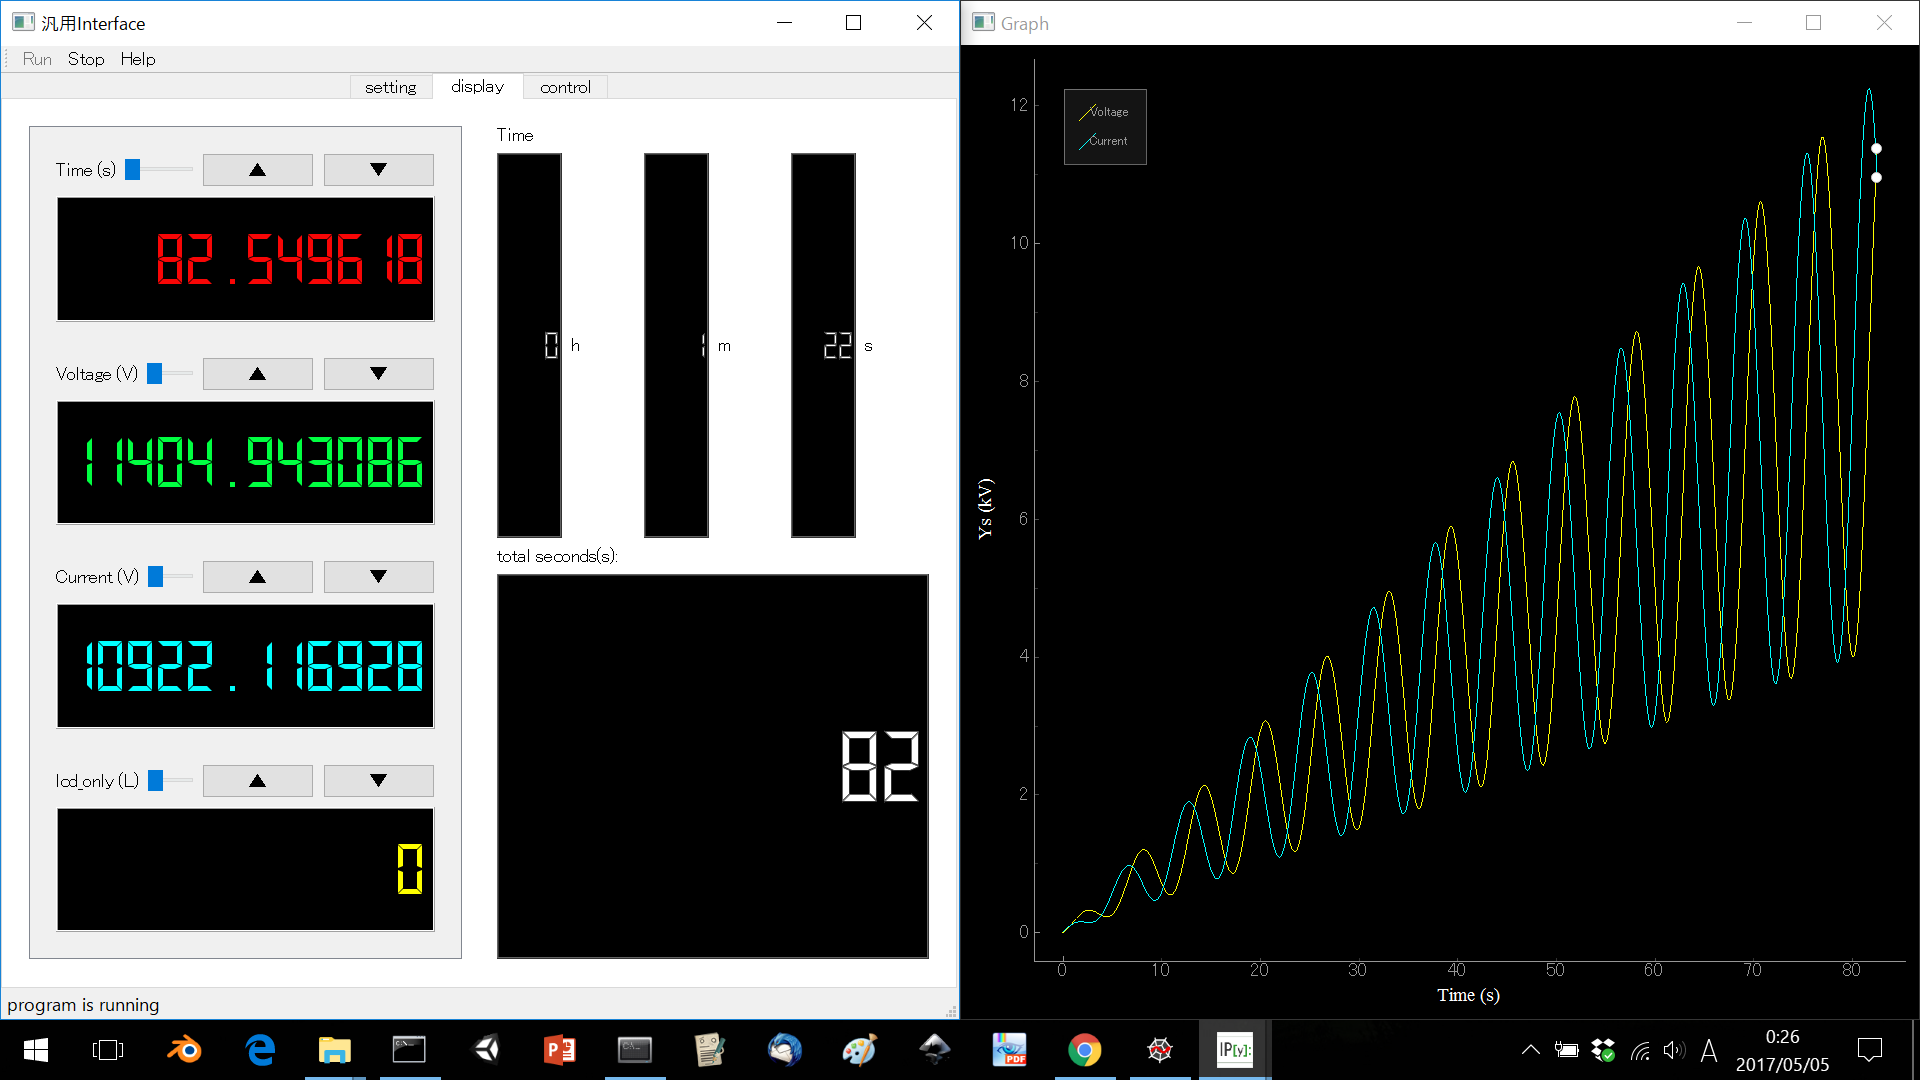
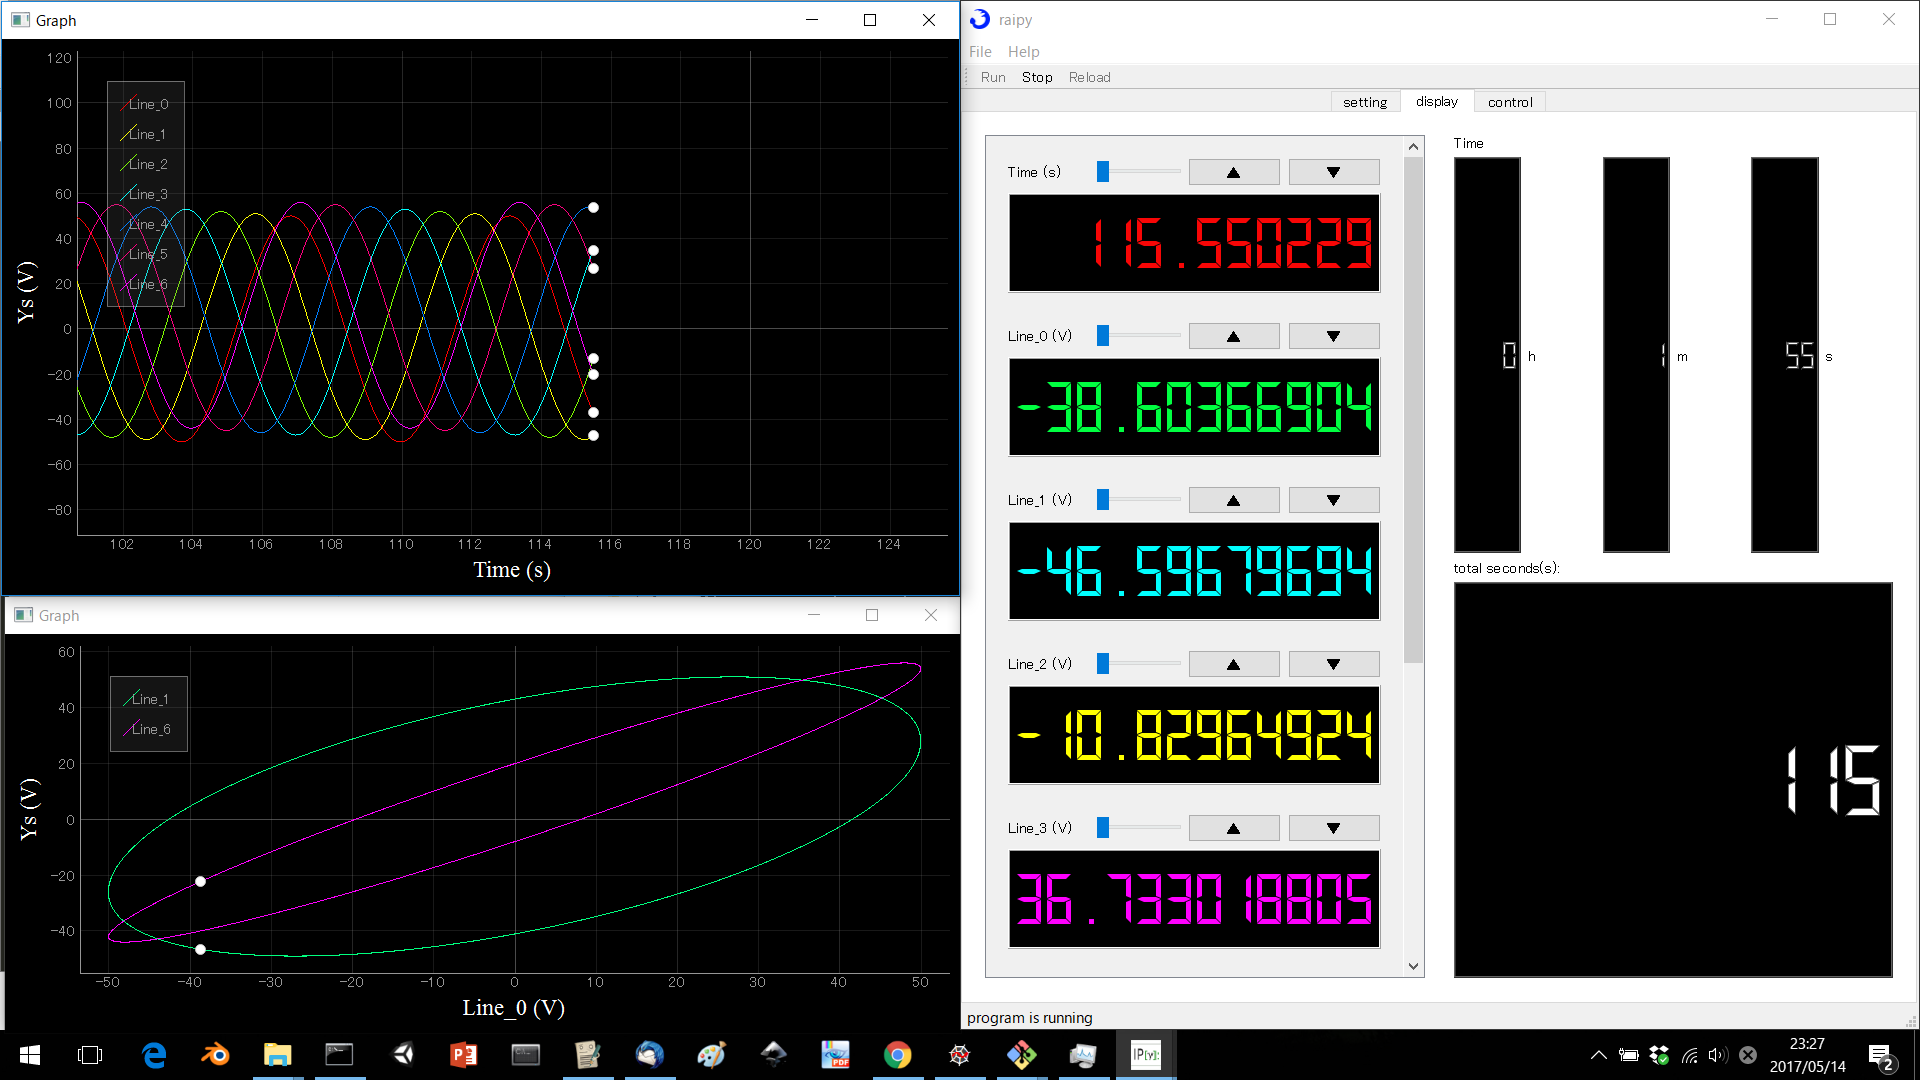
preparation for version up to 0.2

diff --git a/raipy/Examples/GPIB_query.py b/raipy/Examples/GPIB_query.py
@@ -1,0 +1,38 @@
+# -*- coding: utf-8 -*-
+import PyQt5.QtCore
+from PyQt5.QtGui import QColor
+import time
+import numpy as np
+import raipy.UserClassBase as UserClassBase
+from datetime import datetime
+
+class programThread(PyQt5.QtCore.QThread):
+    outputSignal=PyQt5.QtCore.pyqtSignal(dict)   #You must emit all graph data at onece
+    def __init__(self,params):
+        super().__init__()
+        self.params=params
+    def run(self):
+        ###The main body of your program
+        ###example: Call self.lcdSignal.emit({'Temperature':1,'Voltage':2}) if you want to display 1 on 'Temperature' display and 2 on 'Voltage' display.
+        pass
+
+
+
+
+
+class Output(UserClassBase.OutputBase):
+    ###Write the labels of your measured values with dimensions
+    #format：[[label],[unit]] example:graph_outputs=[['Temperature','K'],['Voltage','V']]
+    outputs=[]
+    
+    ###Write the settings you want to show up in Graphs in advance
+    #format:[[x axis label,[y axis label 1,y axis label 2],[color 1,color 2]],[settings for the second graph]] example：[['Time',['Voltage','Current'],[QColor(255,255,0),QColor(0,255,255)]]]
+    graph_settings=[]
+    
+class Control(UserClassBase.ControlBase):
+    ###Write your control parameters with initial values
+    bools=[['Halt',False]]    #format:bools=[['label',bool]] example：bools=[['flag_A',True],['flag_B',False]]
+    sliders=[['slider',0,100,0]] #format：sliders=[['label',minimum(int)、maximum（int）、initial value（int）]] example：sliders=[['slider_A',0,10,5],['slider_B',0,200,0]]
+    dials=[['dial',0,100,50]]    #same on 
+    floats=[['test',0]]
+#    floats=[['Kei_2400',24],['Kei_2182',8],['Kei_2000',4],['LakeShore',14],['time interval(s)',0.05]]   #format：floats=[['label',initial value（float）]] example：floats=[['param_PI',3.14159265],[param_E,2.71828]]

diff --git a/setup.py b/setup.py
@@ -11,7 +11,7 @@ long_description = 'GUI for measurements'
 
 setup(
     name  = 'raipy',
-    version = '0.1',
+    version = '0.2',
     description = 'GUI for measurements',
     long_description = long_description,
     license = 'MIT',
@@ -20,7 +20,7 @@ setup(
     url = 'https://github.com/threemeninaboat3247/raipy',
     keywords = 'GUI',
     packages = find_packages(),
-    install_requires = ['pyqtgraph','numpy'],
+    install_requires = ['pyqtgraph>=0.10.0','numpy'],
     classifiers = [
       'Programming Language :: Python :: 3.5',
       'Intended Audience :: Science/Research',

diff --git a/README.md b/README.md
@@ -19,3 +19,5 @@ raipy.exe()
 ```
 
 ![](https://github.com/threemeninaboat3247/raipy/blob/master/raipy.png)
+![](https://github.com/threemeninaboat3247/raipy/blob/master/raipy2.png)
+![](https://github.com/threemeninaboat3247/raipy/blob/master/raipy3.png)
